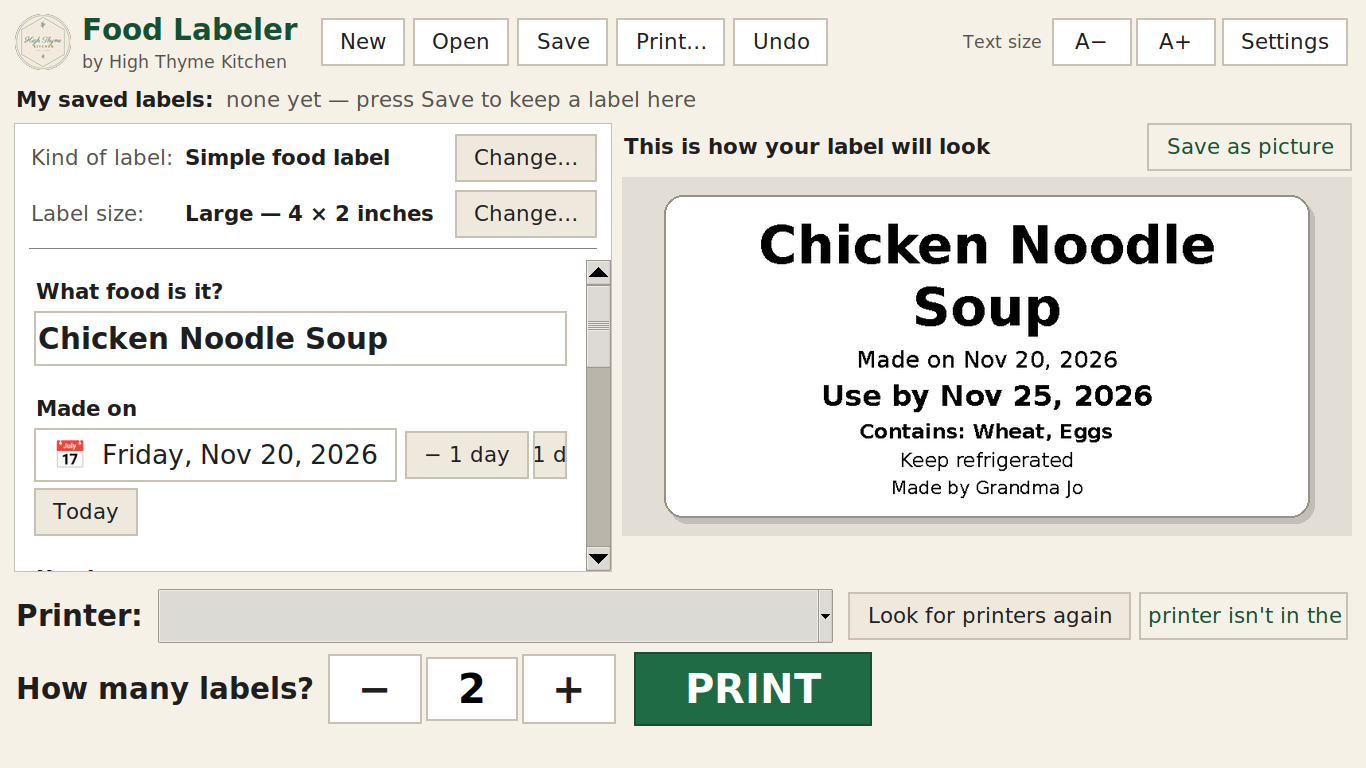
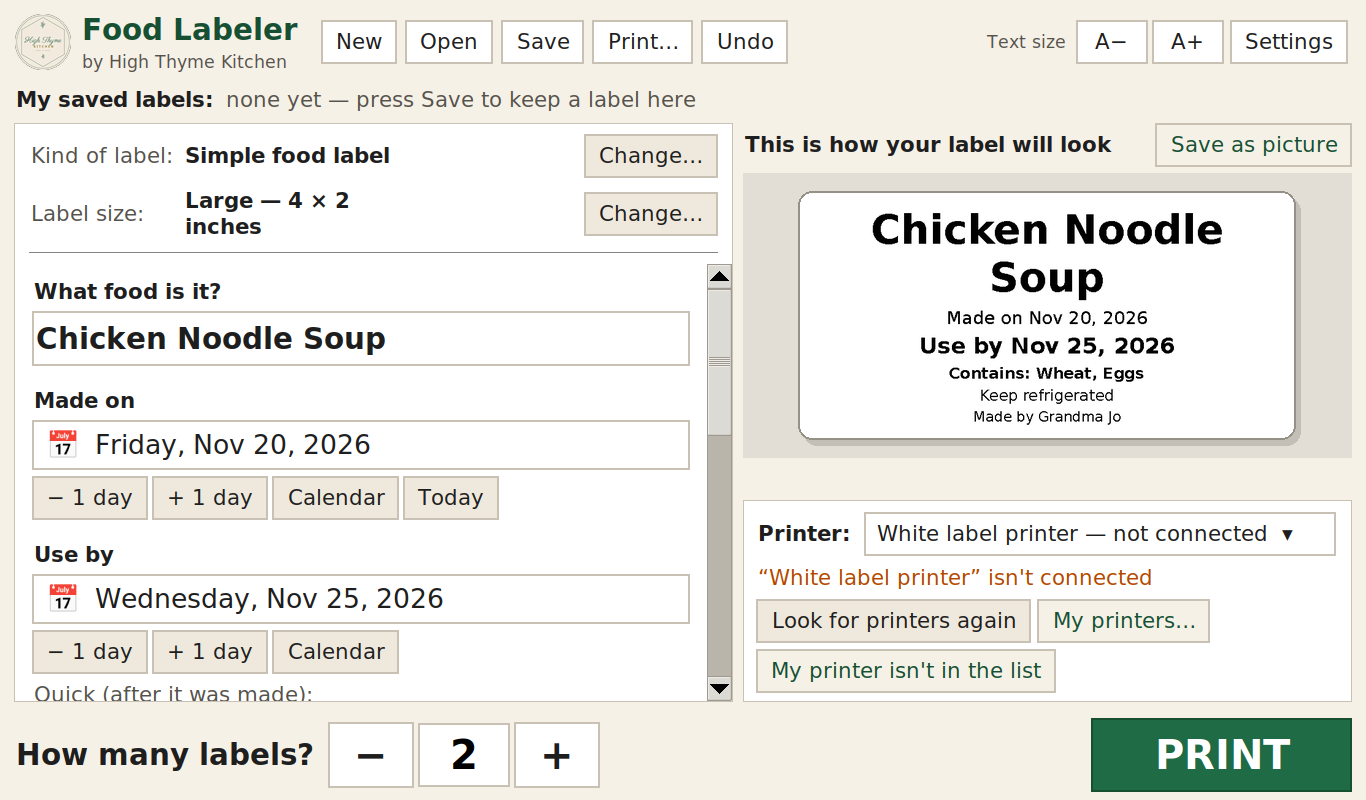
Fix cottage form layout, compact label check, new screenshots (1.1.1)

diff --git a/tools/screenshot.py b/tools/screenshot.py
@@ -1,6 +1,7 @@
 """Developer smoke test: build the real window with sample content and take
-screenshots. Run under a throwaway X server, e.g.
-    Xwayland :77 -geometry 1366x768 &   DISPLAY=:77 python tools/screenshot.py out_dir
+screenshots. The window fills the screen for about half a minute, so run it on
+a desktop you are not using at that moment:
+    python tools/screenshot.py docs
 Uses a temporary data folder and FOOD_LABELER_DRY_RUN, so nothing is printed.
 """
 import os
@@ -22,21 +23,15 @@ from food_labeler import app as appmod, model, settings  # noqa: E402
 
 OUT = Path(sys.argv[1] if len(sys.argv) > 1 else ROOT / "docs")
 OUT.mkdir(parents=True, exist_ok=True)
-DISPLAY = os.environ.get("DISPLAY", ":0")
 
 
 def grab(name, widget=None):
-    root.update()
-    code = ("from PIL import ImageGrab;import sys;"
-            f"im=ImageGrab.grab(xdisplay={DISPLAY!r});"
-            "b=tuple(int(x) for x in sys.argv[2:6]);"
-            "im=im.crop(b) if b[2]>b[0] else im;im.save(sys.argv[1])")
+    """Save the window (or dialog) as docs/<name>, by asking X for that window's
+    own pixels; Xwayland refuses whole-screen grabs."""
     w = widget or root
-    x, y = w.winfo_rootx(), w.winfo_rooty()
-    box = [x, y, x + w.winfo_width(), y + w.winfo_height()]
-    subprocess.run([sys.executable, "-c", code, str(OUT / name)] + [str(v) for v in box],
-                   check=True)
-    print("saved", OUT / name)
+    w.update()
+    subprocess.run([sys.executable, str(ROOT / "tools" / "xwingrab.py"), hex(w.winfo_id()),
+                    str(OUT / name)], check=True, timeout=20)
 
 
 settings.setup_logging()
@@ -44,15 +39,35 @@ cfg = settings.Settings()
 # a remembered printer so the dropdown has something friendly to show
 cfg["selected"] = "usb:1-1.4"
 cfg.printer_info("usb:1-1.4")["nickname"] = "White label printer"
+cfg["bakery_offered"] = True  # no "Set up my bakery" pop-up during the run
 root = tk.Tk(className="FoodLabeler")
 sw, sh = root.winfo_screenwidth(), root.winfo_screenheight()
 app = appmod.App(root, cfg)
-root.geometry(f"{sw}x{sh}+0+0")
+root.geometry("1366x800")
 doc = model.LabelDoc("simple", "large", model.default_fields("simple"))
 doc.fields.update(food="Chicken Noodle Soup", contains="Wheat, Eggs", note="Keep refrigerated",
                   made_by="Grandma Jo")
 app.set_doc(doc, None, mark_saved=False)
 app.copies_var.set("2")
+
+# A filled-in example bakery for the cottage food screens.
+from food_labeler import bakery  # noqa: E402
+app.profile.data.update(state="NE", business="High Thyme Kitchen",
+                        legal_entity="Example Bakes LLC", street="123 Garden Lane",
+                        city="Springfield", region="NE", zip="68000",
+                        phone="(555) 010-0199", permit="CF-0000", setup_done=True)
+app.profile.save()
+app.products.put(bakery.product_from_fields(
+    {"product": "Lemon Thyme Shortbread", "net": "8 oz",
+     "ingredients": "Butter (cream, salt), all-purpose flour (wheat flour, niacin, "
+                    "reduced iron, thiamine mononitrate, riboflavin, folic acid), sugar, "
+                    "lemon zest, fresh thyme, sea salt",
+     "contains": "Milk, Wheat", "storage": "Store in a cool, dry place"}))
+app.products.put(bakery.product_from_fields(
+    {"product": "Sourdough Country Loaf", "net": "1 lb 8 oz",
+     "ingredients": "Bread flour (wheat flour, malted barley flour), water, salt",
+     "contains": "Wheat", "storage": "Best eaten within 3 days"}))
+app.products.save()
 
 steps = []
 
@@ -114,15 +129,81 @@ def wizard():
     return True
 
 
+@step
+def cottage_label():
+    app.doc.set_template("cottage")
+    app.doc.fields.update(
+        product="Lemon Thyme Shortbread", net="8 oz",
+        ingredients="Butter (cream, salt), all-purpose flour (wheat flour, niacin, reduced "
+                    "iron, thiamine mononitrate, riboflavin, folic acid), sugar, lemon zest, "
+                    "fresh thyme, sea salt",
+        contains="Milk, Wheat", storage="Store in a cool, dry place",
+        made_on="2026-11-20", best_by="2026-12-04")
+    app._sync_ui_from_doc()
+    root.after(800, lambda: (grab("screenshot-cottage.png"), nxt()))
+    return True
+
+
+@step
+def cottage_missing():
+    app.doc.fields["ingredients"] = ""
+    app._sync_ui_from_doc()
+    root.after(600, lambda: (grab("screenshot-cottage-check.png"),
+                             nxt()))
+    return True
+
+
+@step
+def bakery_wizard():
+    from food_labeler.bakery_dialogs import BakeryWizard
+    d = BakeryWizard(root, app)
+    d.deiconify()
+    root.after(700, lambda: (grab("screenshot-bakery-setup.png", d), d.destroy(), nxt()))
+    return True
+
+
+@step
+def my_bakery():
+    from food_labeler.bakery_dialogs import MyBakeryDialog
+    d = MyBakeryDialog(root, app)
+    d.deiconify()
+    root.after(700, lambda: (grab("screenshot-my-bakery.png", d), d.destroy(), nxt()))
+    return True
+
+
+@step
+def ingredients():
+    from food_labeler.bakery_dialogs import IngredientPicker
+    d = IngredientPicker(root, app)
+    d.deiconify()
+    root.after(700, lambda: (grab("screenshot-ingredients.png", d), d.destroy(), nxt()))
+    return True
+
+
+@step
+def products():
+    from food_labeler.bakery_dialogs import ProductPicker
+    d = ProductPicker(root, app)
+    d.deiconify()
+    root.after(700, lambda: (grab("screenshot-products.png", d), d.destroy(), nxt()))
+    return True
+
+
 def nxt():
     if not steps:
         root.after(100, root.destroy)
         return
     fn = steps.pop(0)
-    if not fn():
+    try:
+        waits = fn()
+    except Exception as e:  # keep going, so one broken step can't hang the run
+        print("step failed:", fn.__name__, e)
+        waits = False
+    if not waits:
         root.after(300, nxt)
 
 
 root.after(1500, nxt)
+root.after(90000, root.destroy)  # never leave a window behind
 root.mainloop()
 print("smoke test OK")

diff --git a/food_labeler/app.py b/food_labeler/app.py
@@ -187,8 +187,10 @@ class App:
         main = tk.Frame(r, bg=BG, padx=14, pady=8)
         main.grid(row=2, column=0, sticky="nsew")
         main.grid_rowconfigure(0, weight=1)
-        main.grid_columnconfigure(0, weight=6)
-        main.grid_columnconfigure(1, weight=5)
+        # "uniform" keeps the 6:5 split no matter how wide the form's contents ask
+        # to be (the cottage label check would otherwise squeeze the preview).
+        main.grid_columnconfigure(0, weight=6, uniform="main")
+        main.grid_columnconfigure(1, weight=5, uniform="main")
 
         left = tk.Frame(main, bg=PANEL, highlightthickness=1, highlightbackground=BORDER)
         left.grid(row=0, column=0, sticky="nsew", padx=(0, 10))
@@ -1279,11 +1281,13 @@ class App:
         if bad:
             title = f"Label check: {len(bad)} thing{'s' if len(bad) != 1 else ''} missing"
         else:
-            title = "Label check: everything on the list is there"
-        tk.Label(fr, text=title, font="ui_bold", bg=PANEL,
+            title = f"Label check: all {len(items)} things are there"
+        tk.Label(fr, text=title, font="ui_bold", bg=PANEL, wraplength=520, justify="left",
                  fg=WARN if bad else GREEN_DARK).pack(anchor="w")
-        for it in items:
-            text = ("✔ " if it.ok else "✘ ") + it.label + (f" — {it.hint}" if it.hint else "")
+        # Only the missing items are listed, so the form below stays in view on a
+        # laptop screen; "About ...'s rules" shows everything the state asks for.
+        for it in bad:
+            text = "✘ " + it.label + (f" — {it.hint}" if it.hint else "")
             tk.Label(fr, text=text, font="ui", bg=PANEL, fg=GREEN_DARK if it.ok else WARN,
                      wraplength=520, justify="left").pack(anchor="w")
         if res.overflow:
@@ -1306,8 +1310,12 @@ class App:
         button(fr, f"About {rule.name}'s rules…", self.about_rules, "quiet").pack(anchor="w")
 
     def about_rules(self):
-        rule = self.cottage_rule().rule
-        parts = [rule.notes or "No notes."]
+        eff = self.cottage_rule()
+        rule = eff.rule
+        items = cottage.check_label(self.doc.fields, self.profile.data, eff.to_ctx())
+        parts = ["What the label needs:\n" + "\n".join(
+            ("✔ " if i.ok else "✘ ") + i.label for i in items)]
+        parts.append(rule.notes or "No notes.")
         if rule.source_url:
             parts.append("Source: " + rule.source_url
                          + (f" (checked {rule.checked_on})" if rule.checked_on else ""))

diff --git a/tools/xwingrab.py b/tools/xwingrab.py
@@ -1,0 +1,27 @@
+"""Save one X window's contents as a PNG (works on Xwayland, where grabbing the
+whole screen is refused). Usage: python tools/xwingrab.py <window-id> <out.png>
+"""
+import ctypes, ctypes.util, sys
+from PIL import Image
+X = ctypes.cdll.LoadLibrary(ctypes.util.find_library("X11"))
+class XImage(ctypes.Structure):
+    _fields_ = [("width", ctypes.c_int), ("height", ctypes.c_int), ("xoffset", ctypes.c_int),
+                ("format", ctypes.c_int), ("data", ctypes.c_void_p), ("byte_order", ctypes.c_int),
+                ("bitmap_unit", ctypes.c_int), ("bitmap_bit_order", ctypes.c_int),
+                ("bitmap_pad", ctypes.c_int), ("depth", ctypes.c_int), ("bytes_per_line", ctypes.c_int),
+                ("bits_per_pixel", ctypes.c_int)]
+class XWA(ctypes.Structure):
+    _fields_ = [("x", ctypes.c_int), ("y", ctypes.c_int), ("width", ctypes.c_int), ("height", ctypes.c_int),
+                ("pad", ctypes.c_char * 256)]
+X.XOpenDisplay.restype = ctypes.c_void_p
+X.XGetImage.restype = ctypes.POINTER(XImage)
+X.XGetImage.argtypes = [ctypes.c_void_p, ctypes.c_ulong, ctypes.c_int, ctypes.c_int, ctypes.c_uint,
+                        ctypes.c_uint, ctypes.c_ulong, ctypes.c_int]
+X.XGetWindowAttributes.argtypes = [ctypes.c_void_p, ctypes.c_ulong, ctypes.POINTER(XWA)]
+d = X.XOpenDisplay(None)
+win = int(sys.argv[1], 0)
+a = XWA(); X.XGetWindowAttributes(d, win, ctypes.byref(a))
+im = X.XGetImage(d, win, 0, 0, a.width, a.height, 0xFFFFFFFF, 2).contents
+buf = ctypes.string_at(im.data, im.bytes_per_line * im.height)
+Image.frombuffer("RGB", (im.width, im.height), buf, "raw", "BGRX", im.bytes_per_line, 1).save(sys.argv[2])
+print("saved", sys.argv[2], im.width, im.height)

diff --git a/food_labeler/widgets.py b/food_labeler/widgets.py
@@ -137,8 +137,9 @@ class ScrollFrame(tk.Frame):
         self.inner = tk.Frame(self.canvas, bg=bg)
         self._win = self.canvas.create_window((0, 0), window=self.inner, anchor="nw")
         self.canvas.configure(yscrollcommand=self.vsb.set)
-        self.canvas.pack(side="left", fill="both", expand=True)
+        # scrollbar packed first, so a narrow window squeezes the canvas, never the bar
         self.vsb.pack(side="right", fill="y")
+        self.canvas.pack(side="left", fill="both", expand=True)
         self.inner.bind("<Configure>", self._on_inner)
         self.canvas.bind("<Configure>", self._on_canvas)
         self.bind_all("<MouseWheel>", self._wheel, add="+")

diff --git a/food_labeler/__init__.py b/food_labeler/__init__.py
@@ -20,4 +20,4 @@ PyInstaller Windows version resource and the release workflow all read it.
 APP_NAME = "Food Labeler"
 APP_ID = "food-labeler"
 BRAND = "High Thyme Kitchen"
-__version__ = "1.1.0"
+__version__ = "1.1.1"

diff --git a/README.md b/README.md
@@ -13,7 +13,7 @@ the screen is exactly what comes out of the printer. It works with
 LP610BT-type label printers (sold as Labelnize, Flexyva, Polono and others)
 and Zebra printers such as the ZP450, on Windows and Linux.
 
-![The four kinds of label](docs/screenshot-templates.png)
+![Food Labeler's main window](docs/screenshot.png)
 
 ---
 
@@ -68,6 +68,8 @@ Get the newest version from the **[Releases page](../../releases/latest)**:
 
 ### Other things you can do
 
+![Choosing the kind of label](docs/screenshot-templates.png)
+
 - **Kind of label → Change…**: *Simple food label*, *Package label* (with
   ingredients and your kitchen's name and address), *Date sticker*,
   *Free text*, or *Cottage food label* (for home bakers, see below).
@@ -87,10 +89,18 @@ Get the newest version from the **[Releases page](../../releases/latest)**:
 If you bake at home and sell under your state's *cottage food* law, choose
 **Kind of label → Cottage food label**.
 
+![A cottage food label for a Nebraska bakery](docs/screenshot-cottage.png)
+
+This is what that label prints (4 × 2 inch):
+
+![Printed cottage food label example](docs/samples/cottage_NE_large.png)
+
 1. **Set up my bakery** (Food Labeler offers this the first time):
    pick your state, then type your bakery's name, full address (street,
    city, state and ZIP), phone, email and permit number if you have one.
    You can change these any time in **Settings → My bakery**.
+
+   ![Set up my bakery: pick your state](docs/screenshot-bakery-setup.png)
 2. Fill in the label: product name, net weight (type *8 oz* or *1.5 lb*;
    grams are added when your state asks for them), ingredients, allergens,
    how to store it and the dates.
@@ -99,14 +109,21 @@ If you bake at home and sell under your state's *cottage food* law, choose
    and its allergens, so **Contains** fills itself in. The starter list is
    only an example: check each ingredient against your own package and
    press **Change…** to match it.
+
+   ![Building the ingredient list](docs/screenshot-ingredients.png)
 4. **Save to My products** keeps the product so next time **Choose from
    My products…** fills the whole label in one click.
-5. The **Label check** at the top of the form shows, in green, everything
-   your state asks for that is on the label, and in red what is missing.
-   If something is missing, **PRINT** asks before printing.
+5. The **Label check** at the top of the form says in green when everything
+   your state asks for is on the label, or lists in red what is missing.
+   **About (your state)'s rules…** shows the full list and where the rules
+   come from. If something is missing, **PRINT** asks before printing.
+
+   ![Label check showing a missing item](docs/screenshot-cottage-check.png)
 6. Your state's required wording is printed at the size your state asks
    for. If it doesn't all fit, Food Labeler says so and suggests a bigger
    label; it never makes the required wording smaller or leaves it out.
+
+![My bakery: your state, its source and your kitchen details](docs/screenshot-my-bakery.png)
 
 **Your own wording is kept.** In **Settings → My bakery** you can change
 the wording and the list of what must be on the label. Your changes are
@@ -181,8 +198,8 @@ folder*, file `food-labeler.log`.
 - **Building, testing, contributing:** [CONTRIBUTING.md](CONTRIBUTING.md).
 - **Changes:** [CHANGELOG.md](CHANGELOG.md).
 - Sample printouts of every label kind and size: [docs/samples](docs/samples).
-- TODO: a fresh screenshot of the main window. (`docs/screenshot.png` is from
-  an older test build and is not used here.)
+- Screenshots in `docs/` come from `python tools/screenshot.py docs` (it
+  opens the real window with example data for about half a minute).
 
 ## License
 

diff --git a/CHANGELOG.md b/CHANGELOG.md
@@ -4,6 +4,16 @@ All notable changes to Food Labeler are listed here. Version numbers follow
 [Semantic Versioning](https://semver.org/); the number itself lives in
 `food_labeler/__init__.py`.
 
+## 1.1.1 — 2026-11-20
+
+- The cottage food form no longer squeezes the label preview and printer
+  list into a thin strip; the screen keeps its left/right split.
+- The Label check is shorter: one green line when everything is there, or
+  just the missing items in red. **About (your state)'s rules…** shows the
+  full list. The form below it stays in view on a laptop screen.
+- The form's scroll bar can no longer be pushed off the edge.
+- New screenshots in the README, including the cottage food screens.
+
 ## 1.1.0 — 2026-11-20
 
 Labels for home bakers selling under their state's cottage food law.
